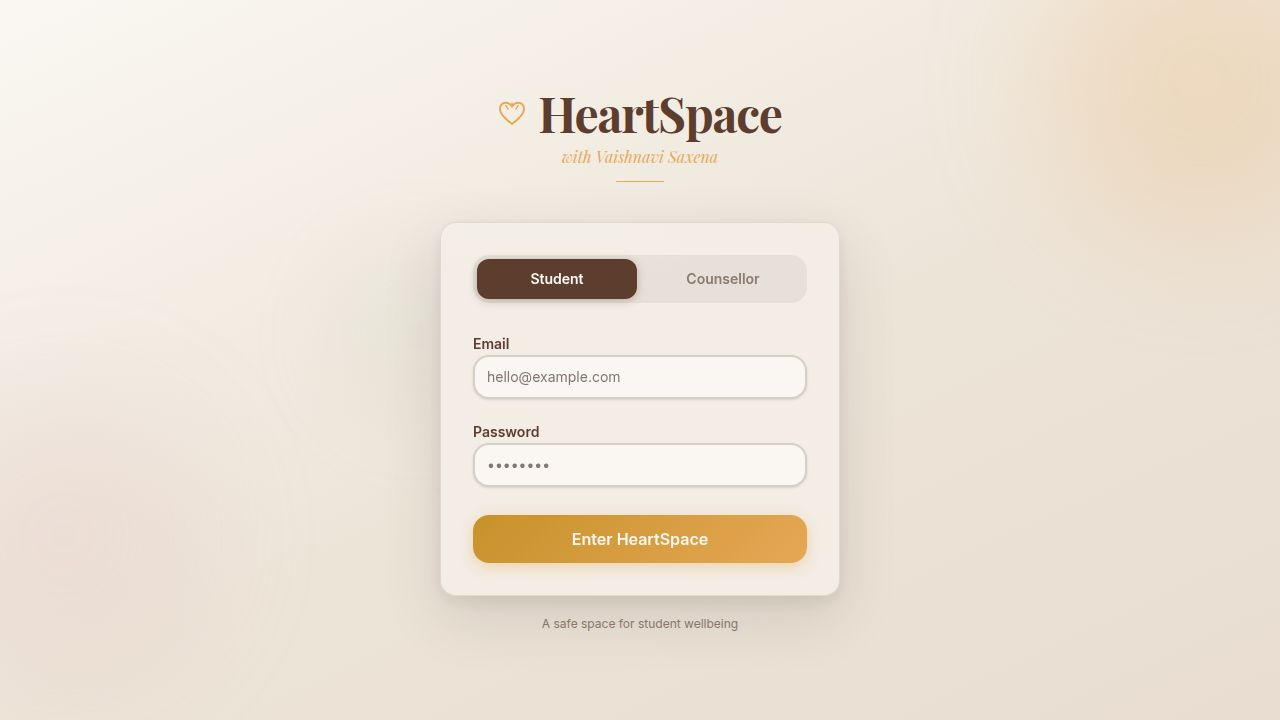
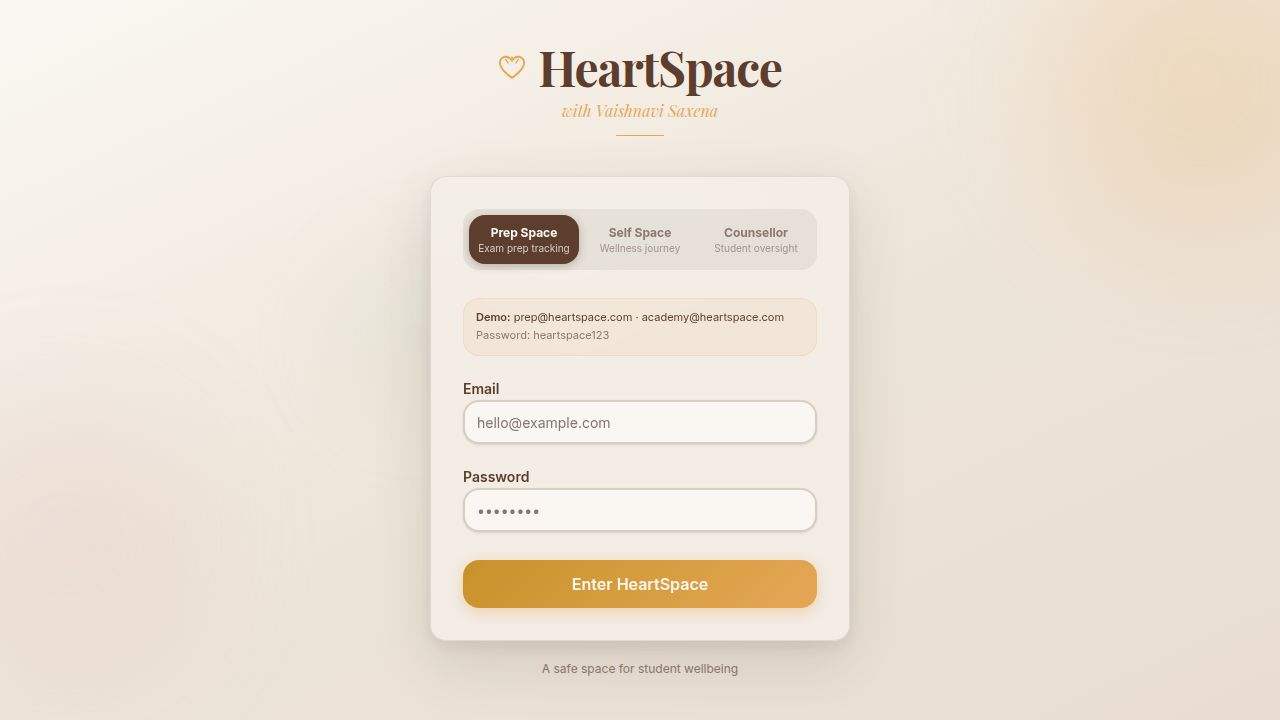
Center login page elements and add demo accounts for testing
Update `login.tsx` to center content and implement hardcoded demo accounts. Add `@tailwindcss/vite` plugin and configure Vite server port to 19808 in `vite.config.ts`.

Replit-Commit-Author: Agent
Replit-Commit-Session-Id: f229aa17-04f5-4b99-9c12-45ec49e12e8a
Replit-Commit-Checkpoint-Type: full_checkpoint
Replit-Commit-Event-Id: 50475ad4-5787-4d30-872a-242ab480efa2
Replit-Commit-Screenshot-Url: https://storage.googleapis.com/screenshot-production-us-central1/6baaffa1-fd03-43bb-addd-51ac841d2278/f229aa17-04f5-4b99-9c12-45ec49e12e8a/xQvQ3GE
Replit-Helium-Checkpoint-Created: true

diff --git a/artifacts/heartspace/src/pages/login.tsx b/artifacts/heartspace/src/pages/login.tsx
@@ -3,7 +3,6 @@ import { useLocation } from "wouter";
 import { z } from "zod";
 import { useForm } from "react-hook-form";
 import { zodResolver } from "@hookform/resolvers/zod";
-import { useLogin } from "../lib/api-client-react";
 import { useAuth } from "../lib/auth";
 import { Button } from "@/components/ui/button";
 import { Input } from "@/components/ui/input";
@@ -37,37 +36,93 @@ const TAB_CONFIG: { id: Tab; label: string; sub: string }[] = [
   { id: "counsellor", label: "Counsellor", sub: "Student oversight" },
 ];
 
+const DEMO_HINTS: Record<Tab, string> = {
+  prep: "prep@heartspace.com · academy@heartspace.com",
+  self: "counseling@heartspace.com",
+  counsellor: "vaishnavi@heartspace.com",
+};
+
+interface DemoAccount {
+  email: string;
+  name: string;
+  role: "student" | "counsellor";
+  space: "prep" | "self" | null;
+  redirect: string;
+}
+
+const DEMO_ACCOUNTS: Record<string, DemoAccount> = {
+  "vaishnavi@heartspace.com": {
+    email: "vaishnavi@heartspace.com",
+    name: "Vaishnavi Saxena",
+    role: "counsellor",
+    space: null,
+    redirect: "/counsellor",
+  },
+  "prep@heartspace.com": {
+    email: "prep@heartspace.com",
+    name: "Prep Space Student",
+    role: "student",
+    space: "prep",
+    redirect: "/dashboard",
+  },
+  "counseling@heartspace.com": {
+    email: "counseling@heartspace.com",
+    name: "Counseling Client",
+    role: "student",
+    space: "self",
+    redirect: "/self-dashboard",
+  },
+  "academy@heartspace.com": {
+    email: "academy@heartspace.com",
+    name: "Academy Student",
+    role: "student",
+    space: "prep",
+    redirect: "/dashboard",
+  },
+};
+
+const DEMO_PASSWORD = "heartspace123";
+
 export default function Login() {
   const [, setLocation] = useLocation();
   const { login } = useAuth();
   const { toast } = useToast();
   const [tab, setTab] = useState<Tab>("prep");
+  const [isPending, setIsPending] = useState(false);
 
   const form = useForm<LoginFormValues>({
     resolver: zodResolver(loginSchema),
     defaultValues: { email: "", password: "" },
   });
 
-  const loginMutation = useLogin({
-    mutation: {
-      onSuccess: (data) => {
-        login(data.user, data.token);
-        const space = (data.user as any).space as string | null;
-        if (data.user.role === "counsellor") setLocation("/counsellor");
-        else if (space === "self") setLocation("/self-dashboard");
-        else setLocation("/dashboard");
-      },
-      onError: () =>
-        toast({
-          title: "Login failed",
-          description: "Please check your credentials and selected role.",
-          variant: "destructive",
-        }),
-    },
-  });
   function onSubmit(v: LoginFormValues) {
-    loginMutation.mutate({
-      data: { ...v, role: tab === "counsellor" ? "counsellor" : "student" },
+    const email = v.email.toLowerCase().trim();
+    const demo = DEMO_ACCOUNTS[email];
+
+    if (demo && v.password === DEMO_PASSWORD) {
+      setIsPending(true);
+      setTimeout(() => {
+        const fakeUser = {
+          id: email,
+          email: demo.email,
+          name: demo.name,
+          role: demo.role,
+          space: demo.space,
+          avatarUrl: null,
+        } as any;
+        const fakeToken = btoa(`${email}:demo:heartspace`);
+        login(fakeUser, fakeToken);
+        setIsPending(false);
+        setLocation(demo.redirect);
+      }, 600);
+      return;
+    }
+
+    toast({
+      title: "Login failed",
+      description:
+        "Invalid credentials. Use the demo accounts shown below the tabs.",
+      variant: "destructive",
     });
   }
 
@@ -94,7 +149,7 @@ export default function Login() {
         />
       </div>
 
-      <div className="w-full max-w-[420px] z-10 animate-in fade-in slide-in-from-bottom-6 duration-700">
+      <div className="w-full max-w-[420px] z-10">
         {/* Brand */}
         <div className="text-center mb-10">
           <div className="flex items-center justify-center gap-3 mb-2">
@@ -107,33 +162,9 @@ export default function Login() {
                 strokeLinecap="round"
                 strokeLinejoin="round"
               />
-              <line
-                x1="8"
-                y1="7"
-                x2="6"
-                y2="4"
-                stroke={GOLD}
-                strokeWidth="1"
-                strokeLinecap="round"
-              />
-              <line
-                x1="11"
-                y1="5.5"
-                x2="11"
-                y2="2"
-                stroke={GOLD}
-                strokeWidth="1"
-                strokeLinecap="round"
-              />
-              <line
-                x1="14"
-                y1="7"
-                x2="16"
-                y2="4"
-                stroke={GOLD}
-                strokeWidth="1"
-                strokeLinecap="round"
-              />
+              <line x1="8"  y1="7"   x2="6"  y2="4" stroke={GOLD} strokeWidth="1" strokeLinecap="round" />
+              <line x1="11" y1="5.5" x2="11" y2="2" stroke={GOLD} strokeWidth="1" strokeLinecap="round" />
+              <line x1="14" y1="7"   x2="16" y2="4" stroke={GOLD} strokeWidth="1" strokeLinecap="round" />
             </svg>
             <h1
               className="text-5xl font-serif font-bold tracking-tight"
@@ -170,6 +201,7 @@ export default function Login() {
             {TAB_CONFIG.map(({ id, label, sub }) => (
               <button
                 key={id}
+                type="button"
                 onClick={() => setTab(id)}
                 className="flex flex-col items-center py-2.5 px-1 rounded-xl transition-all duration-200 text-center"
                 style={
@@ -191,16 +223,15 @@ export default function Login() {
           </div>
 
           {/* Demo hint */}
-          <p
-            className="text-[11px] mb-5 px-3 py-2 rounded-lg"
-            style={{ background: `${GOLD}15`, color: SIDEBAR }}
+          <div
+            className="mb-5 px-3 py-2.5 rounded-xl text-[11px] leading-relaxed"
+            style={{ background: `${GOLD}18`, border: `1px solid ${GOLD}30`, color: SIDEBAR }}
           >
-            {tab === "prep"
-              ? "Try: student1@heartspace.com / password123"
-              : tab === "self"
-                ? "Try: student3@heartspace.com / password123"
-                : "Try: vaishnavi@heartspace.com / password123"}
-          </p>
+            <span className="font-semibold">Demo:</span>{" "}
+            {DEMO_HINTS[tab]}
+            <br />
+            <span style={{ color: MUTED }}>Password: heartspace123</span>
+          </div>
 
           <Form {...form}>
             <form onSubmit={form.handleSubmit(onSubmit)} className="space-y-5">
@@ -240,6 +271,7 @@ export default function Login() {
 
               <Button
                 type="submit"
+                disabled={isPending}
                 className="w-full h-12 rounded-xl font-semibold text-base mt-2 transition-all duration-200 hover:scale-[1.02] active:scale-[0.98]"
                 style={{
                   background: `linear-gradient(135deg, #C8922A 0%, ${GOLD} 100%)`,
@@ -248,7 +280,7 @@ export default function Login() {
                   boxShadow: "0 4px 16px rgba(230,167,86,0.4)",
                 }}
               >
-                {loginMutation.isPending ? "Entering..." : "Enter HeartSpace"}
+                {isPending ? "Entering..." : "Enter HeartSpace"}
               </Button>
             </form>
           </Form>

diff --git a/artifacts/heartspace/vite.config.ts b/artifacts/heartspace/vite.config.ts
@@ -1,13 +1,19 @@
 import { defineConfig } from "vite";
 import react from "@vitejs/plugin-react";
+import tailwindcss from "@tailwindcss/vite";
 import path from "path";
 
 export default defineConfig({
-  plugins: [react()],
+  plugins: [react(), tailwindcss()],
   resolve: {
     alias: {
       "@": path.resolve(__dirname, "./src"),
     },
+  },
+  server: {
+    port: parseInt(process.env.PORT ?? "5173"),
+    host: "0.0.0.0",
+    allowedHosts: true,
   },
   build: {
     outDir: "dist/public",
